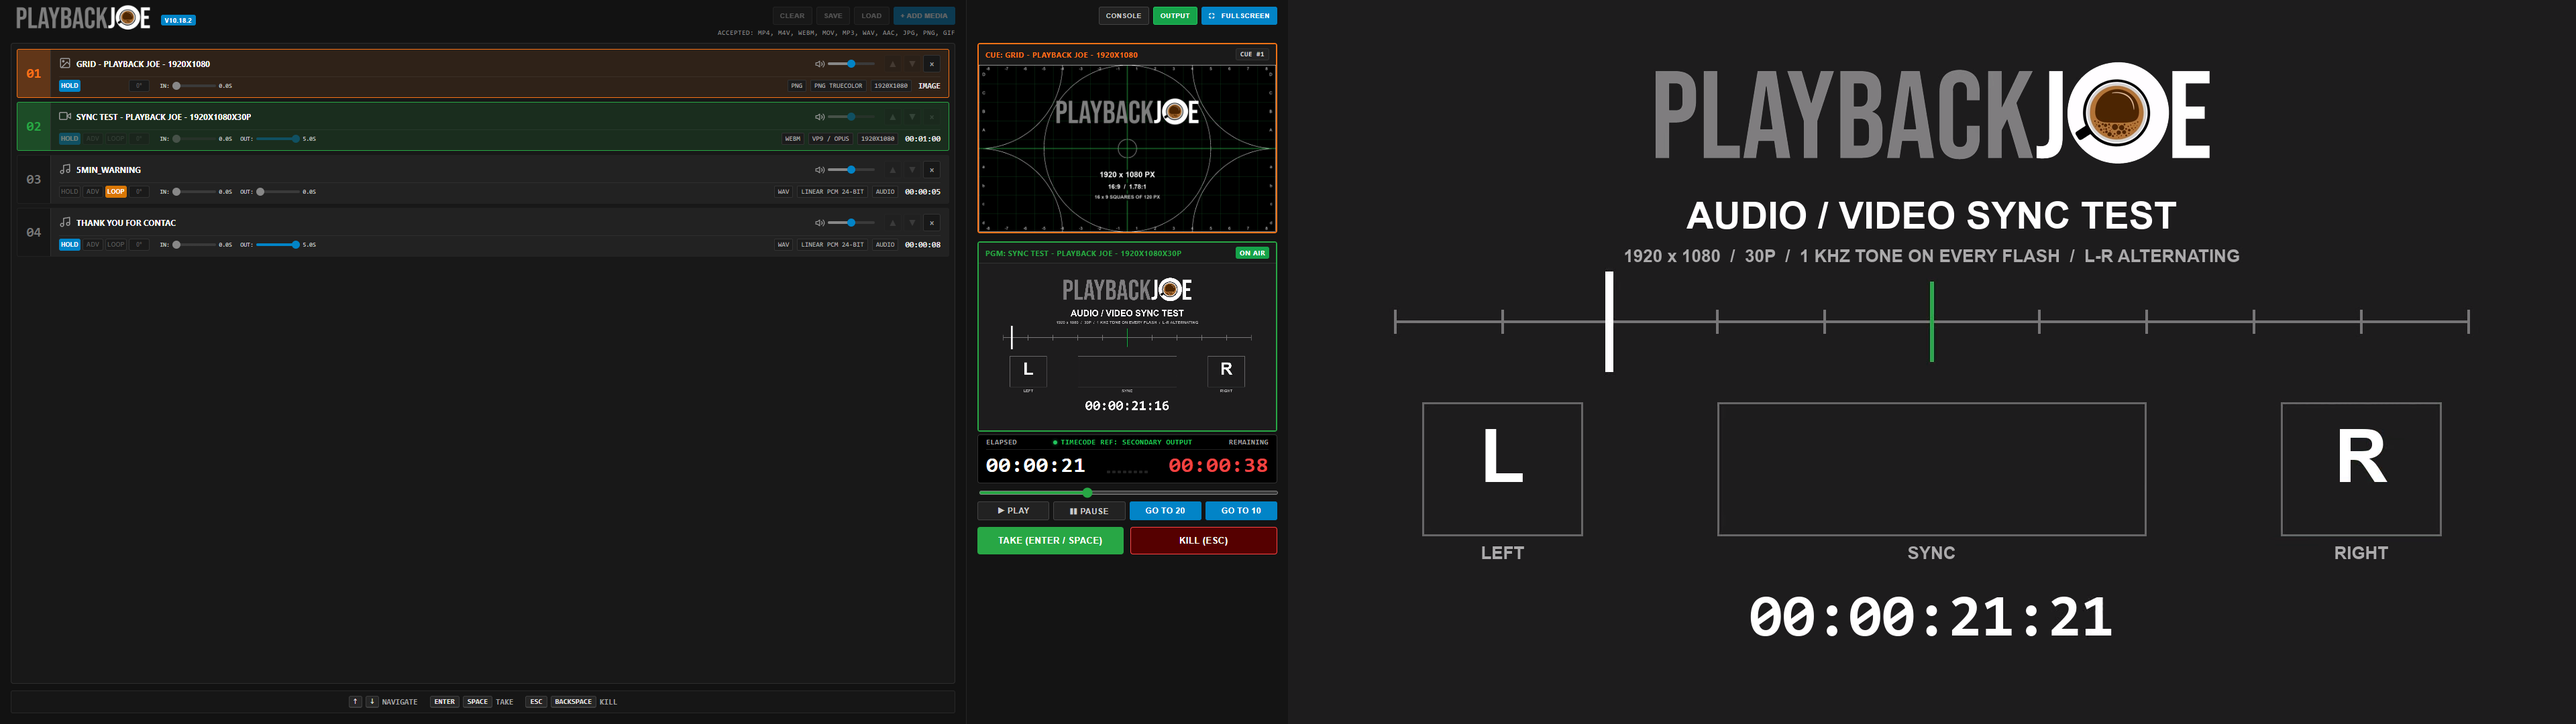
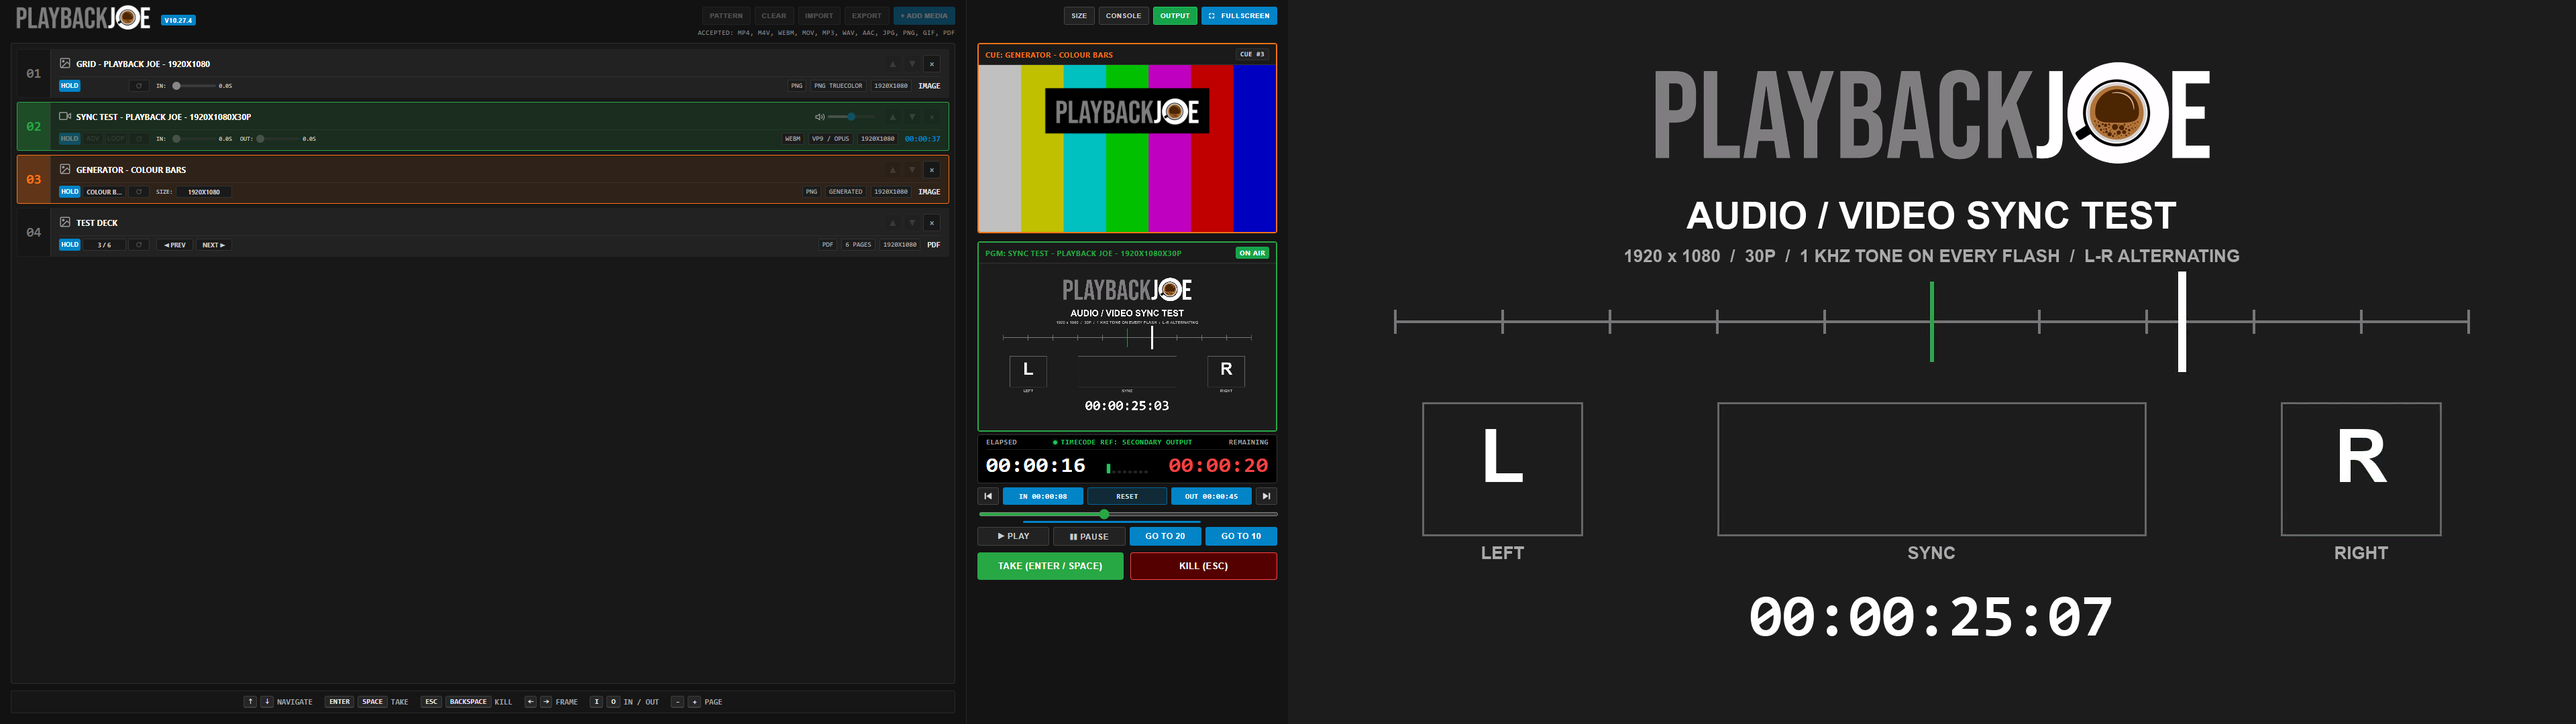
README: new dual-display screenshot and feature close-ups

diff --git a/README.md b/README.md
@@ -43,6 +43,8 @@ Your settings, your autosaved cuelist and the starter clips are kept in your app
 - **Frame-accurate IN / OUT points per cue**: step to a frame with ◀| |▶ and press **IN** or **OUT**. The cue then starts at IN and ends at OUT, and its fades, HOLD, ADV and LOOP all follow the points.
 - Large **elapsed and remaining timecode** and an audio level meter.
 
+<img src="docs/feature-in-out.png" width="467" alt="Timecode panel with IN at 00:00:08, OUT at 00:00:45, and a blue strip under the scrub bar marking the range">
+
 ### Built for live use
 - If a media file is missing or won't play, the output cuts to black, the cue turns red and the problem is logged, instead of the show freezing.
 - If the output window crashes or hangs, it is replaced automatically.
@@ -50,6 +52,8 @@ Your settings, your autosaved cuelist and the starter clips are kept in your app
 - Only one copy of the app runs at a time, so a double-click can't open a second set of windows.
 - A built-in **CONSOLE** shows a log of what happened.
 - **SIZE** makes the operator console **SMALL**, **DEFAULT** or **LARGE**. The output is never affected. The size is saved with the autosave and with exported cuelists, so it comes back at the next launch or IMPORT.
+
+<img src="docs/feature-size.png" width="342" alt="SIZE list open with SMALL, DEFAULT and LARGE, next to the CONSOLE, OUTPUT and FULLSCREEN buttons">
 
 ### Keyboard shortcuts
 | Key | Action |
@@ -62,8 +66,12 @@ Your settings, your autosaved cuelist and the starter clips are kept in your app
 ### PDF slides
 Add a **PDF** with ADD MEDIA and it becomes one cue. Pick a page from its dropdown, or step with **◀ PREV** and **NEXT ▶**, or press **-** and **+** (main keyboard or numpad) while it's live. Pages cut instantly on the output. For a PowerPoint deck, export it as a PDF first. Animations, transitions and embedded video don't carry over.
 
+<img src="docs/feature-pdf-cue.png" width="738" alt="A PDF cue on page 3 of 6, with its page list open and PREV and NEXT buttons beside it">
+
 ### Test patterns
 The **PATTERN** list next to CLEAR adds a test cue to the cuelist: the bundled **Grid** or **Sync Test**, or a **Generator** cue. A generator cue is a normal cue with its own pattern and size pickers: grid, colour bars, greyscale, checkerboard or a solid colour, from 720p to 4K.
+
+<img src="docs/feature-test-patterns.png" width="738" alt="A generator cue with its pattern list open, showing grid, colour bars, greyscale, checkerboard and solid colours">
 
 ### Starter clips
 A fresh install opens with two test clips made for Playback Joe:
